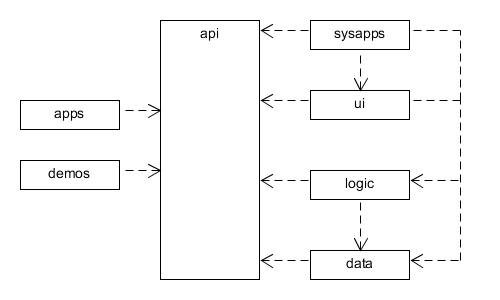
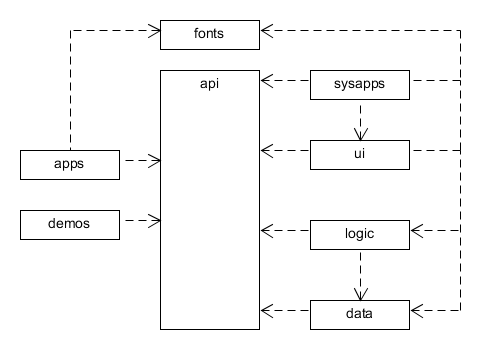
Moved fonts to a separate module.

diff --git a/dev.jfxde.parent/dev.jfxde.ui/src/main/resources/dev/jfxde/ui/css/standard.css b/dev.jfxde.parent/dev.jfxde.ui/src/main/resources/dev/jfxde/ui/css/standard.css
@@ -1,18 +1,19 @@
+/* Works only with classpath, does not work for resources in other Java module. */
 
-@font-face {
-   /* font-family: name inside the file */
-   src: url("../fonts/FontAwesome5Free-Solid-900.otf");
-}
+/* @font-face { */
+/*    font-family: name inside the file */
+/*    src: url("/dev/jfxde/fonts/FontAwesome5Free-Solid-900.otf"); */
+/* } */
 
-@font-face {
-   /* font-family: name inside the file */
-   src: url("../fonts/FontAwesome5Free-Regular-400.otf");
-}
+/* @font-face { */
+/*    font-family: name inside the file */
+/*    src: url("/dev/jfxde/fonts/FontAwesome5Free-Regular-400.otf"); */
+/* } */
 
-@font-face {
-   /* font-family: name inside the file */
-   src: url("../fonts/octicons.ttf");
-}
+/* @font-face { */
+/*    font-family: name inside the file */
+/*    src: url("/dev/jfxde/fonts/octicons.ttf"); */
+/* } */
 
 /* Platform classes ***********************************************************/
 

diff --git a/dev.jfxde.parent/dev.jfxde.fonts/src/main/resources/dev/jfxde/fonts/fonts.css b/dev.jfxde.parent/dev.jfxde.fonts/src/main/resources/dev/jfxde/fonts/fonts.css
@@ -1,0 +1,14 @@
+@font-face {
+   font-family: name inside the file
+   src: url("FontAwesome5Free-Solid-900.otf");
+}
+
+@font-face {
+   font-family: name inside the file
+   src: url("FontAwesome5Free-Regular-400.otf");
+}
+
+@font-face {
+   font-family: name inside the file
+   src: url("octicons.ttf");
+}

diff --git a/dev.jfxde.parent/dev.jfxde.ui/src/main/java/dev/jfxde/ui/Main.java b/dev.jfxde.parent/dev.jfxde.ui/src/main/java/dev/jfxde/ui/Main.java
@@ -4,6 +4,7 @@ import java.nio.file.Files;
 import java.util.logging.Level;
 import java.util.logging.Logger;
 
+import dev.jfxde.fonts.Fonts;
 import dev.jfxde.logic.FileManager;
 import dev.jfxde.logic.Sys;
 import javafx.application.Application;
@@ -11,57 +12,60 @@ import javafx.application.Preloader.ProgressNotification;
 import javafx.scene.Scene;
 import javafx.scene.SceneAntialiasing;
 import javafx.scene.input.KeyCombination;
+import javafx.scene.text.Font;
 import javafx.stage.Stage;
 
 public class Main extends Application {
 
-	private static final Logger LOGGER = Logger.getLogger(Main.class.getName());
+    private static final Logger LOGGER = Logger.getLogger(Main.class.getName());
 
-	public static void main(String[] args) {
+    public static void main(String[] args) {
 
-		try {
-			Files.createDirectories(FileManager.LOG_DIR);
-			System.setProperty("javafx.preloader", MainPreloader.class.getName());
-			launch(args);
-		} catch (Throwable throwable) {
-			LOGGER.log(Level.SEVERE, throwable.getMessage(), throwable);
-		}
-	}
+        try {
+            Files.createDirectories(FileManager.LOG_DIR);
+            System.setProperty("javafx.preloader", MainPreloader.class.getName());
+            launch(args);
+        } catch (Throwable throwable) {
+            LOGGER.log(Level.SEVERE, throwable.getMessage(), throwable);
+        }
+    }
 
-	@Override
-	public void init() throws Exception {
+    @Override
+    public void init() throws Exception {
 
-		Sys.get().init(Main.class, (p) -> notifyPreloader(new ProgressNotification(p)));
-	}
+        Sys.get().init(Main.class, (p) -> notifyPreloader(new ProgressNotification(p)));
 
-	@Override
-	public void start(Stage stage) throws Exception {
-		stage.setFullScreenExitKeyCombination(KeyCombination.NO_MATCH);
-		stage.setFullScreenExitHint("");
-		DesktopEnvironment desktopEnvironment = new DesktopEnvironment();
+        Fonts.getUrls().forEach(s -> Font.loadFont(s, 10));
+    }
 
-		Scene scene = new Scene(desktopEnvironment, 700, 600, false, SceneAntialiasing.BALANCED);
-		scene.getStylesheets().add(Sys.rm().getCss("standard"));
-		stage.setScene(scene);
+    @Override
+    public void start(Stage stage) throws Exception {
+        stage.setFullScreenExitKeyCombination(KeyCombination.NO_MATCH);
+        stage.setFullScreenExitHint("");
+        DesktopEnvironment desktopEnvironment = new DesktopEnvironment();
 
-		stage.show();
+        Scene scene = new Scene(desktopEnvironment, 700, 600, false, SceneAntialiasing.BALANCED);
+        scene.getStylesheets().add(Sys.rm().getCss("standard"));
+        stage.setScene(scene);
 
-		Sys.fm().watch(() -> {
-			if (stage.isIconified()) {
-				stage.setIconified(false);
-			} else {
-				stage.hide();
-				stage.show();
-			}
-			// On Windows 7 toFront only flashes the icon on the taskbar therefore do hide
-			// and show.
-			stage.toFront();
-			stage.requestFocus();
-		});
-	}
+        stage.show();
 
-	@Override
-	public void stop() throws Exception {
-		Sys.get().stop();
-	}
+        Sys.fm().watch(() -> {
+            if (stage.isIconified()) {
+                stage.setIconified(false);
+            } else {
+                stage.hide();
+                stage.show();
+            }
+            // On Windows 7 toFront only flashes the icon on the taskbar therefore do hide
+            // and show.
+            stage.toFront();
+            stage.requestFocus();
+        });
+    }
+
+    @Override
+    public void stop() throws Exception {
+        Sys.get().stop();
+    }
 }

diff --git a/dev.jfxde.parent/dev.jfxde.fonts/src/main/java/dev/jfxde/fonts/Fonts.java b/dev.jfxde.parent/dev.jfxde.fonts/src/main/java/dev/jfxde/fonts/Fonts.java
@@ -1,6 +1,18 @@
-package dev.jfxde.api.ui;
+package dev.jfxde.fonts;
+
+import java.util.List;
+import java.util.stream.Collectors;
 
 public class Fonts {
+
+    public static List<String> getUrls() {
+
+        List<String> resources = List.of("/dev/jfxde/fonts/FontAwesome5Free-Solid-900.otf",
+                "/dev/jfxde/fonts/FontAwesome5Free-Regular-400.otf",
+                "/dev/jfxde/fonts/octicons.ttf");
+
+        return resources.stream().map(r -> Fonts.class.getResource(r).toExternalForm()).collect(Collectors.toList());
+    }
 
     public static class FontAwesome {
 
@@ -34,7 +46,7 @@ public class Fonts {
 
     public static class Unicode {
 
-    	public static final String FULLWIDTH_PLUS_SIGN = "\uFF0B";
+        public static final String FULLWIDTH_PLUS_SIGN = "\uFF0B";
         public static final String WHITE_LARGE_SQUARE = "\u2b1c";
         public static final String NORTH_WEST_ARROW_TO_CORNER = "\u21f1";
         public static final String UPPER_RIGHT_DROP_SHADOWED_WHITE_SQUARE = "\u2750";

diff --git a/dev.jfxde.parent/dev.jfxde.sysapps/src/main/java/module-info.java b/dev.jfxde.parent/dev.jfxde.sysapps/src/main/java/module-info.java
@@ -1,9 +1,6 @@
 module dev.jfxde.sysapps {
     requires java.management;
     requires javafx.controls;
-    requires dev.jfxde.api;
-    requires dev.jfxde.logic;
-    requires dev.jfxde.ui;
     requires javafx.graphics;
     requires javafx.base;
     requires javafx.web;
@@ -13,6 +10,10 @@ module dev.jfxde.sysapps {
     requires wellbehavedfx;
     requires org.controlsfx.controls;
     requires jdk.jshell;
+
+    requires dev.jfxde.api;
+    requires dev.jfxde.logic;
+    requires dev.jfxde.ui;
 
     provides dev.jfxde.api.App with dev.jfxde.sysapps.appmanager.AppManagerApp,
             dev.jfxde.sysapps.console.ConsoleApp, dev.jfxde.sysapps.exceptionlog.ExceptionLogApp,

diff --git a/dev.jfxde.parent/dev.jfxde.ui/src/main/java/module-info.java b/dev.jfxde.parent/dev.jfxde.ui/src/main/java/module-info.java
@@ -2,12 +2,14 @@ module dev.jfxde.ui {
     requires javafx.graphics;
     requires transitive javafx.controls;
     requires transitive javafx.base;
+
     requires dev.jfxde.api;
+    requires dev.jfxde.fonts;
     requires transitive dev.jfxde.logic;
 
     exports dev.jfxde.ui to dev.jfxde.sysapps;
 
     opens dev.jfxde.ui to javafx.graphics;
-    opens  dev.jfxde.ui.bundles to  dev.jfxde.logic;
-    opens  dev.jfxde.ui.css to  dev.jfxde.logic;
+    opens dev.jfxde.ui.bundles to dev.jfxde.logic;
+    opens dev.jfxde.ui.css to dev.jfxde.logic;
 }

diff --git a/dev.jfxde.parent/dev.jfxde.apps/src/main/java/module-info.java b/dev.jfxde.parent/dev.jfxde.apps/src/main/java/module-info.java
@@ -4,11 +4,13 @@ module dev.jfxde.apps {
     requires jdk.jsobject;
     requires jdk.net;
     requires javafx.controls;
-    requires dev.jfxde.api;
     requires javafx.web;
     requires org.controlsfx.controls;
     requires javafx.graphics;
     requires javafx.base;
+
+    requires dev.jfxde.api;
+    requires dev.jfxde.fonts;
 
     provides dev.jfxde.api.App with dev.jfxde.apps.webbrowser.WebBrowserApp;
 

diff --git a/dev.jfxde.parent/dev.jfxde.apps/src/main/java/dev/jfxde/apps/webbrowser/WebMenuBar.java b/dev.jfxde.parent/dev.jfxde.apps/src/main/java/dev/jfxde/apps/webbrowser/WebMenuBar.java
@@ -6,7 +6,7 @@ import org.controlsfx.control.textfield.AutoCompletionBinding;
 import org.controlsfx.control.textfield.TextFields;
 
 import dev.jfxde.api.AppContext;
-import dev.jfxde.api.ui.Fonts;
+import dev.jfxde.fonts.Fonts;
 import javafx.application.Platform;
 import javafx.beans.binding.Bindings;
 import javafx.geometry.Pos;

diff --git a/dev.jfxde.parent/dev.jfxde.apps/src/main/java/dev/jfxde/apps/webbrowser/WebBrowserContent.java b/dev.jfxde.parent/dev.jfxde.apps/src/main/java/dev/jfxde/apps/webbrowser/WebBrowserContent.java
@@ -2,7 +2,7 @@ package dev.jfxde.apps.webbrowser;
 
 import dev.jfxde.api.AppContext;
 import dev.jfxde.api.AppRequest;
-import dev.jfxde.api.ui.Fonts;
+import dev.jfxde.fonts.Fonts;
 import javafx.application.Platform;
 import javafx.geometry.HPos;
 import javafx.geometry.Insets;

diff --git a/dev.jfxde.parent/dev.jfxde.ui/src/main/java/dev/jfxde/ui/MenuBar.java b/dev.jfxde.parent/dev.jfxde.ui/src/main/java/dev/jfxde/ui/MenuBar.java
@@ -1,6 +1,6 @@
 package dev.jfxde.ui;
 
-import dev.jfxde.api.ui.Fonts;
+import dev.jfxde.fonts.Fonts;
 import dev.jfxde.logic.Sys;
 import javafx.animation.TranslateTransition;
 import javafx.beans.binding.Bindings;

diff --git a/dev.jfxde.parent/dev.jfxde.api/src/main/java/module-info.java b/dev.jfxde.parent/dev.jfxde.api/src/main/java/module-info.java
@@ -4,6 +4,5 @@ module dev.jfxde.api {
     requires transitive javafx.graphics;
 
     exports dev.jfxde.api;
-    exports dev.jfxde.api.ui to dev.jfxde.ui, dev.jfxde.sysapps, dev.jfxde.apps, dev.jfxde.demos;
 
 }

diff --git a/dev.jfxde.parent/dev.jfxde.ui/src/main/java/dev/jfxde/ui/InternalWindow.java b/dev.jfxde.parent/dev.jfxde.ui/src/main/java/dev/jfxde/ui/InternalWindow.java
@@ -1,6 +1,6 @@
 package dev.jfxde.ui;
 
-import dev.jfxde.api.ui.Fonts;
+import dev.jfxde.fonts.Fonts;
 import dev.jfxde.logic.Sys;
 import dev.jfxde.logic.data.Window;
 import dev.jfxde.logic.data.Window.State;
